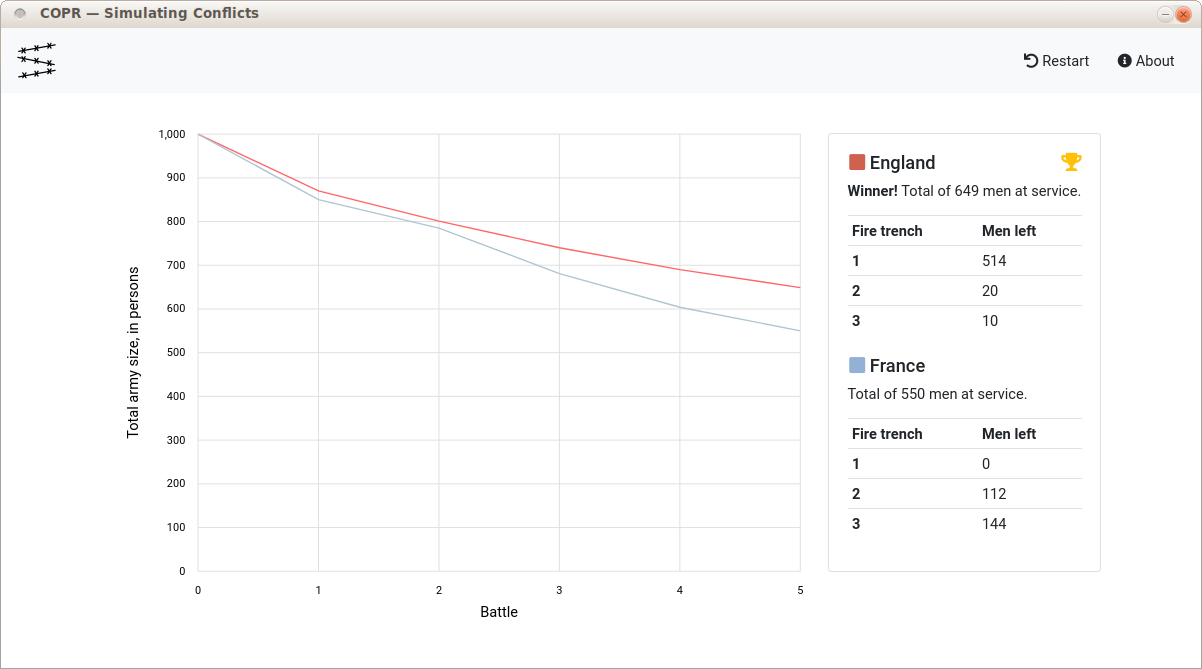
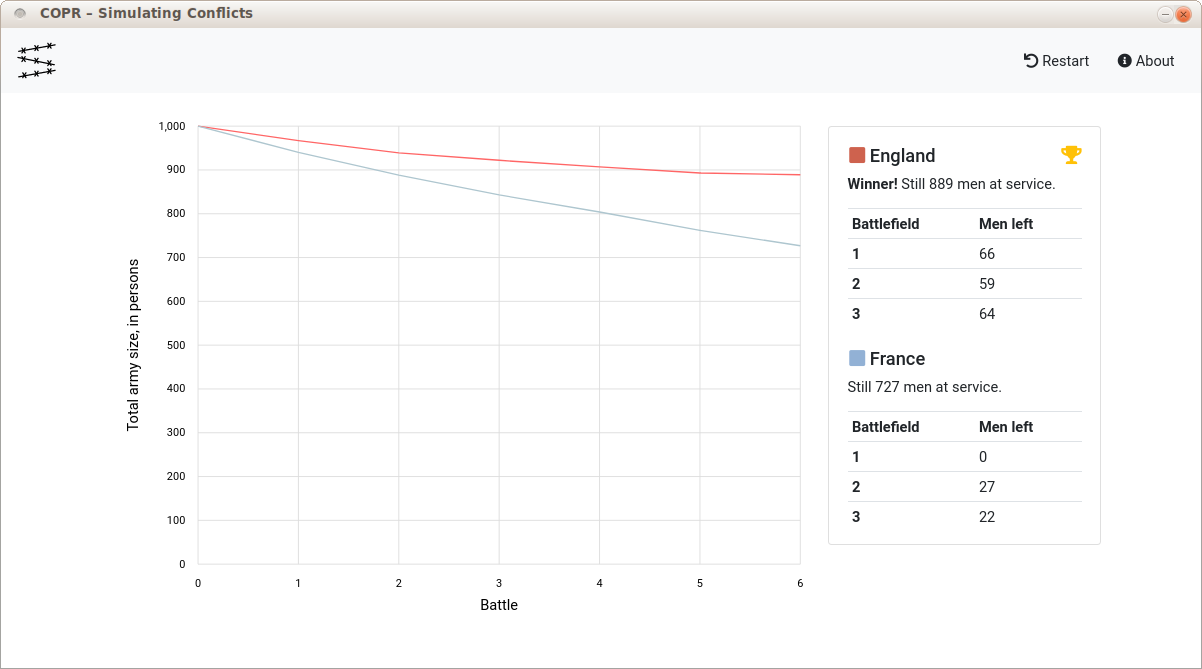
fix: typos

diff --git a/src/app/pages/home/home.component.html b/src/app/pages/home/home.component.html
@@ -1,4 +1,4 @@
-<div class="container-fluid settings-card-container" style="margin-top: 25px;">
+<div class="container-fluid settings-card-container" style="margin-top: 42px;">
   <div class="row settings-card">
     <div class="col"></div>
     <div class="col-7">
@@ -95,14 +95,14 @@
             <hr>
             <div class="form-row">
               <div class="form-group col-md-12">
-                <label for="law">Law</label>
+                <label for="law">Law <i class="fas fa-question-circle" placement="right" ngbTooltip="If you choose the deterministic Lanchester-Osipov law, the loss is calculated in a deterministic way. If you choose the probabilistic one, chance decides for every man whether he survives or not."></i></label>
                 <select
                   [(ngModel)]="settings.law"
                   class="custom-select"
                   id="law"
                   name="law">
-                  <option value="lanchester">Lanchester</option>
-                  <option value="osipov">Osipov</option>
+                  <option value="lanchester">Lanchester-Osipov (deterministic)</option>
+                  <option value="osipov">Lanchester-Osipov (probabilistic)</option>
                   <option value="custom">Custom</option>
                 </select>
               </div>
@@ -119,7 +119,7 @@
                   <ng-katex-paragraph [paragraph]="postParagraph"></ng-katex-paragraph>
                 </p>
                 <p>
-                  However, your custom function provides an <code>attacker</code> and an <code>attacked</code> object with properties <code>size</code> (an integer > 0), <code>combatPower</code> (a float > 0 and ≤ 1), <code>defencePower</code> (also a float > 0 and ≤ 1), and should return the total number of lost soldiers of the attacked force.
+                  However, your custom function provides an <code>attacker</code> and an <code>attacked</code> object with properties <code>size</code> (an integer > 0), <code>combatPower</code> (a float > 0 and ≤ 1), <code>defencePower</code> (also a float > 0 and ≤ 1), <code>combat</code> (a boolean, true if the unit is in combat, false if in defence), and should return the total number of lost soldiers of the attacked force.
                 </p>
               </div>
               <textarea

diff --git a/src/app/pages/result/result.component.html b/src/app/pages/result/result.component.html
@@ -26,13 +26,13 @@
               <i class="fas fa-square army-a"></i> {{ settings.armyA.name }} <span *ngIf="settings.winner.name === settings.armyA.name" class="float-right"><i class="fas fa-trophy text-warning"></i></span>
             </h5>
             <div>
-              <span *ngIf="settings.winner.name === settings.armyA.name" style="font-weight: bold;">Winner!</span> {{ settings.armyA.size }} men at service.
+              <span *ngIf="settings.winner.name === settings.armyA.name" style="font-weight: bold;">Winner!</span> Still {{ settings.armyA.size }} men at service.
             </div>
             <div>
               <table class="table table-sm" style="margin-top: 15px;">
                 <thead>
                   <tr>
-                    <th scope="col">Fire trench</th>
+                    <th scope="col">Battlefield</th>
                     <th scope="col">Men left</th>
                   </tr>
                 </thead>
@@ -58,13 +58,13 @@
               <i class="fas fa-square army-b"></i> {{ settings.armyB.name }} <span *ngIf="settings.winner.name === settings.armyB.name" class="float-right"><i class="fas fa-trophy text-warning"></i></span>
             </h5>
             <div>
-              <span *ngIf="settings.winner.name === settings.armyB.name" style="font-weight: bold;">Winner!</span> {{ settings.armyB.size }} men at service.
+              <span *ngIf="settings.winner.name === settings.armyB.name" style="font-weight: bold;">Winner!</span> Still {{ settings.armyB.size }} men at service.
             </div>
             <div>
               <table class="table table-sm" style="margin-top: 15px; margin-bottom: -5px;">
                 <thead>
                   <tr>
-                    <th scope="col">Fire trench</th>
+                    <th scope="col">Battlefield</th>
                     <th scope="col">Men left</th>
                   </tr>
                 </thead>

diff --git a/src/app/pages/home/home.component.ts b/src/app/pages/home/home.component.ts
@@ -35,15 +35,15 @@ export class HomeComponent implements OnInit {
     let implementation = '// Write only the function\'s body and return an integer\n\nreturn attacker.combatPower * attacker.size;';
     this.settings = new Settings(armyA, armyB, law, implementation);
     this.options = { displayMode: true };
-    this.equationA = '\\frac{dA}{dt} = -\\beta B';
-    this.equationB = '\\frac{dB}{dt} = -\\alpha A';
+    this.equationA = '\\frac{db}{dt} = -r \\times c';
+    this.equationB = '\\frac{dr}{dt} = -b \\times k';
     this.preParagraph = `
     For example, Lanchester’s Square Law calculates the number of soldiers lost using two simple equations, where 
-    $A$ represents the number of soldiers with firepower $\\alpha$ in the one force, and $B$ with 
-    $\\beta$ in the other.
+    $r$ represents the number of soldiers with firepower $c$ in the one force, and $b$ with 
+    $k$ in the other.
     `;
     this.postParagraph = `
-    $\\frac{dA}{dt}$ or $\\frac{dB}{dt}$ represents the rate at which the number 
+    $\\frac{db}{dt}$ or $\\frac{dr}{dt}$ represents the rate at which the number 
     of soldiers is changing at a particular instant. A negative value indicates the loss of soldiers.
     `;
   }

diff --git a/src/app/pages/result/result.component.ts b/src/app/pages/result/result.component.ts
@@ -1,7 +1,7 @@
 import { Component, OnInit } from '@angular/core';
-import { Router, NavigationExtras } from '@angular/router';
+import { Router } from '@angular/router';
 
-import { Settings, Army } from '../../models';
+import { Settings } from '../../models';
 
 
 @Component({
